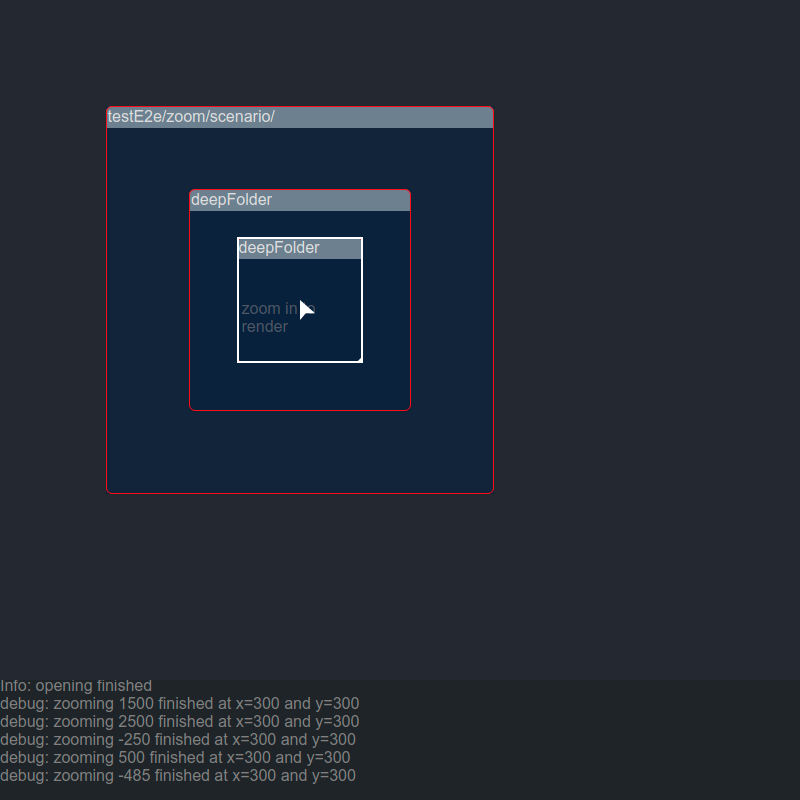
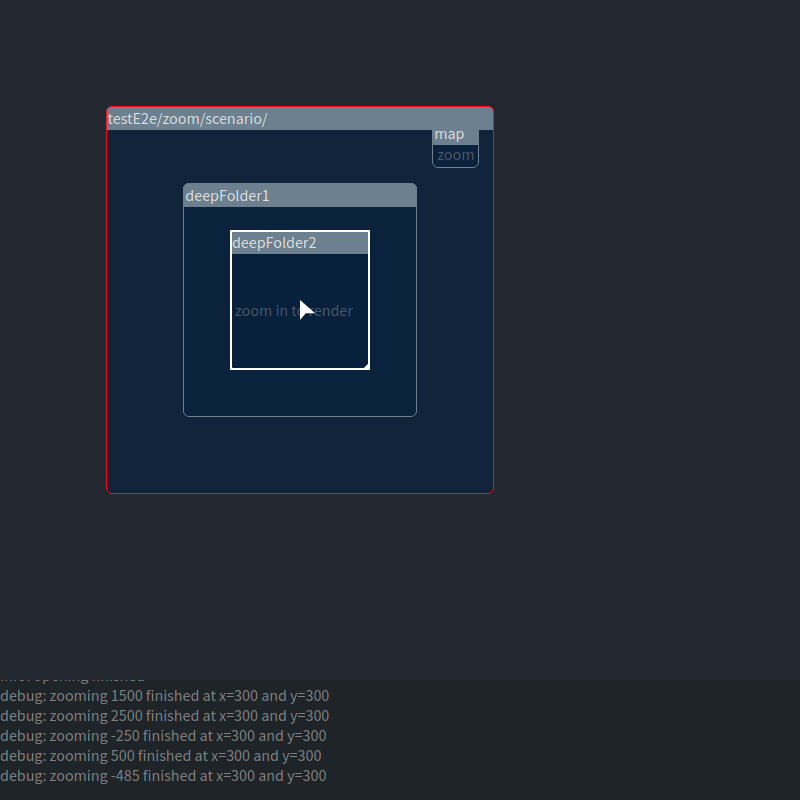
add fonts in CompatibilityTheme to make e2e tests work on all platforms

diff --git a/src/styleAdapter.ts b/src/styleAdapter.ts
@@ -1,3 +1,5 @@
+import * as indexHtmlIds from './indexHtmlIds'
+import { renderManager } from './RenderManager'
 
 interface Style {
   getHintClass(): string
@@ -113,13 +115,21 @@ class DarkTheme implements Style {
 }
 
 class CompatibilityTheme extends DarkTheme {
+
+  public static async new(): Promise<CompatibilityTheme> {
+    let additionalStyleSheets = '<link href="../node_modules/@fontsource/source-sans-pro/400.css" rel="stylesheet" type="text/css">'
+    additionalStyleSheets += '<link href="../node_modules/@fontsource/source-code-pro/400.css" rel="stylesheet" type="text/css">'
+    await renderManager.addContentTo(indexHtmlIds.headId, additionalStyleSheets)
+    return new CompatibilityTheme()
+  }
+
   public getHighlightTransitionClass(): string {
     return ''
   }
 }
 
-export function setCompatibilityTheme(): void {
-  style = new CompatibilityTheme()
+export async function setCompatibilityTheme(): Promise<void> {
+  style = await CompatibilityTheme.new()
 }
 
 export let style: Style = new DarkTheme()

diff --git a/testE2e/pluginFacade/boxIterator.test.ts b/testE2e/pluginFacade/boxIterator.test.ts
@@ -19,7 +19,7 @@ test('iterate over boxes', async () => {
   await iterateOverBoxesUntilFile('testE2e/pluginFacade/scenario/c/a/a')
   expect(await gui.takeScreenshot()).toMatchImageSnapshot(snapshotOptions)
 
-  await iterateOverBoxesUntilFile('testE2e/pluginFacade/scenario/b/a/a')
+  await iterateOverBoxesUntilFile('testE2e/pluginFacade/scenario/d/a/a/a')
   expect(await gui.takeScreenshot()).toMatchImageSnapshot(snapshotOptions)
 
   expect(await gui.getNextSourcePathOfBoxIterator()).toBeUndefined()

diff --git a/src/index.css b/src/index.css
@@ -1,8 +1,12 @@
 body {
-  font-family: -apple-system, BlinkMacSystemFont, "Segoe UI", Roboto, Helvetica, Arial, sans-serif;
+  font-family: "Source Sans Pro", -apple-system, BlinkMacSystemFont, "Segoe UI", Roboto, Helvetica, Arial, sans-serif;
   margin: auto;
   color: #ccc;
   background-color: #242832;
+}
+
+pre {
+  font-family: "Source Code Pro", Monaco, Consolas, "Courier New", monospace;
 }
 
 .terminal {

diff --git a/src/commandLine.ts b/src/commandLine.ts
@@ -28,7 +28,8 @@ async function processCommand(command: string): Promise<void> {
       util.logInfo('closing finished')
       return
     case 'setCompatibilityTheme':
-      setCompatibilityTheme()
+      await setCompatibilityTheme()
+      util.logInfo('activated compatibilityTheme')
       return
     case 'setLogDebugActivated':
       if (parameter === 'true') {

diff --git a/testE2e/zoom/zoom.test.ts b/testE2e/zoom/zoom.test.ts
@@ -45,6 +45,7 @@ test('zoom in and out without waiting', async () => {
   await gui.moveMouseTo(300, 300)
   await gui.zoomWithoutWaitingInBetween([1500, 2500, -250, 500, -485])
   await gui.clearTerminal()
+  await gui.moveMouseTo(300, 300)
   const image = await gui.takeScreenshot()
   expect(image).toMatchImageSnapshot(snapshotOptions)
 })

diff --git a/src/indexHtmlIds.ts b/src/indexHtmlIds.ts
@@ -1,4 +1,5 @@
 
+export const headId: string = 'head'
 export const bodyId: string = 'body'
 export const contentId: string = 'content'
 export const terminalId: string = 'terminal'

diff --git a/src/index.html b/src/index.html
@@ -1,6 +1,6 @@
 <!DOCTYPE html>
 <html>
-  <head>
+  <head id="head">
     <meta charset="UTF-8">
     <title>MammutMap</title>
     <link rel="stylesheet" href="index.css">
